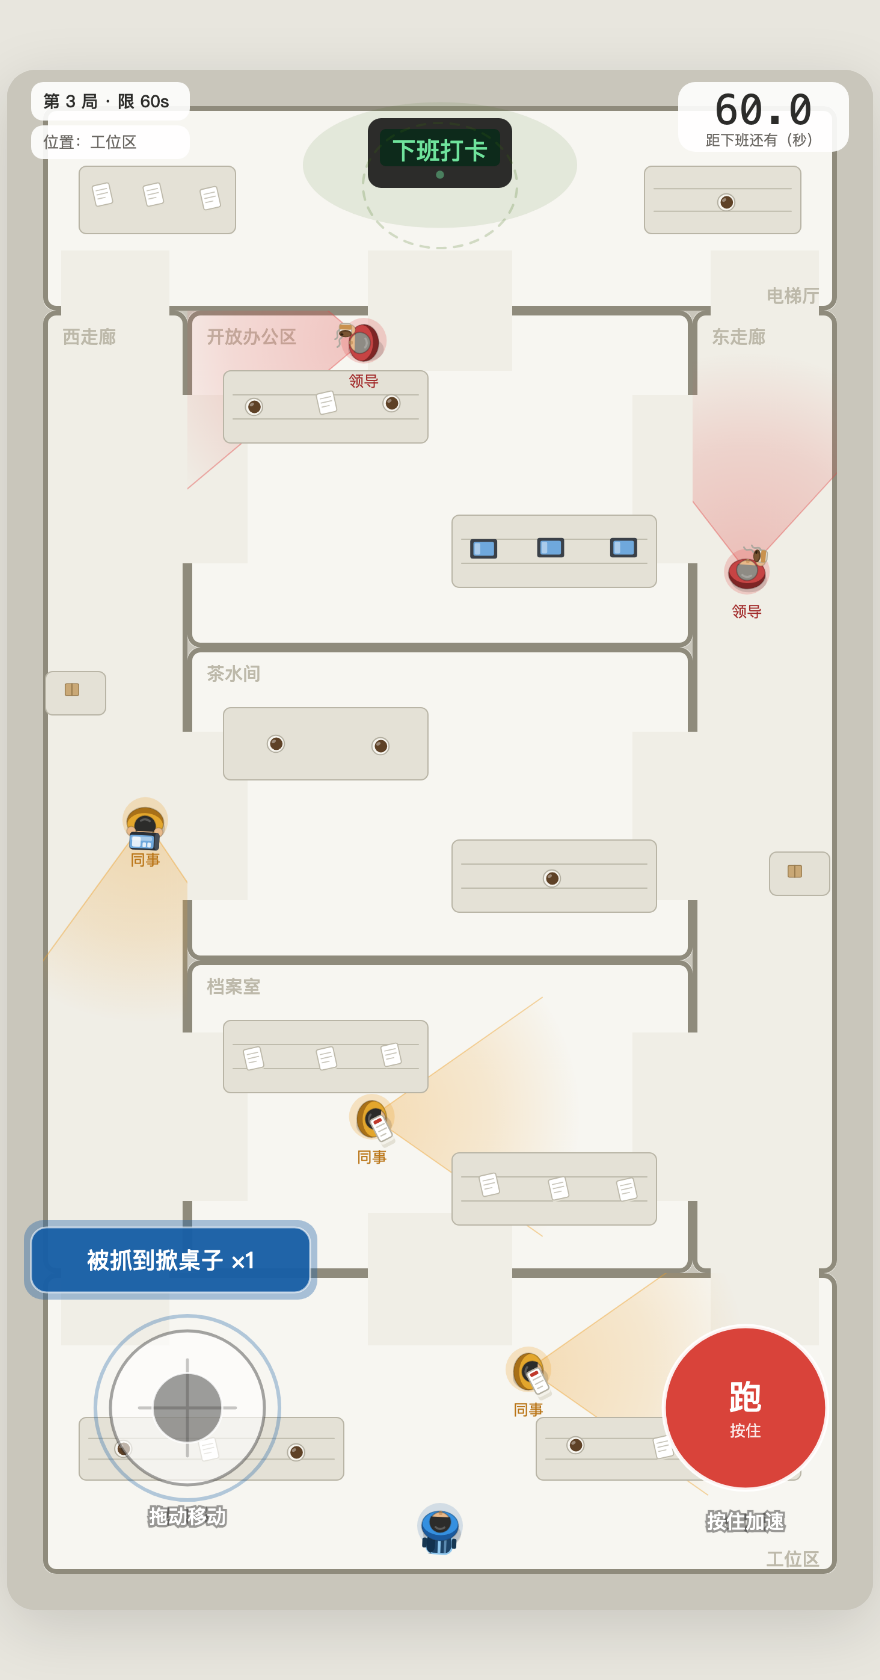
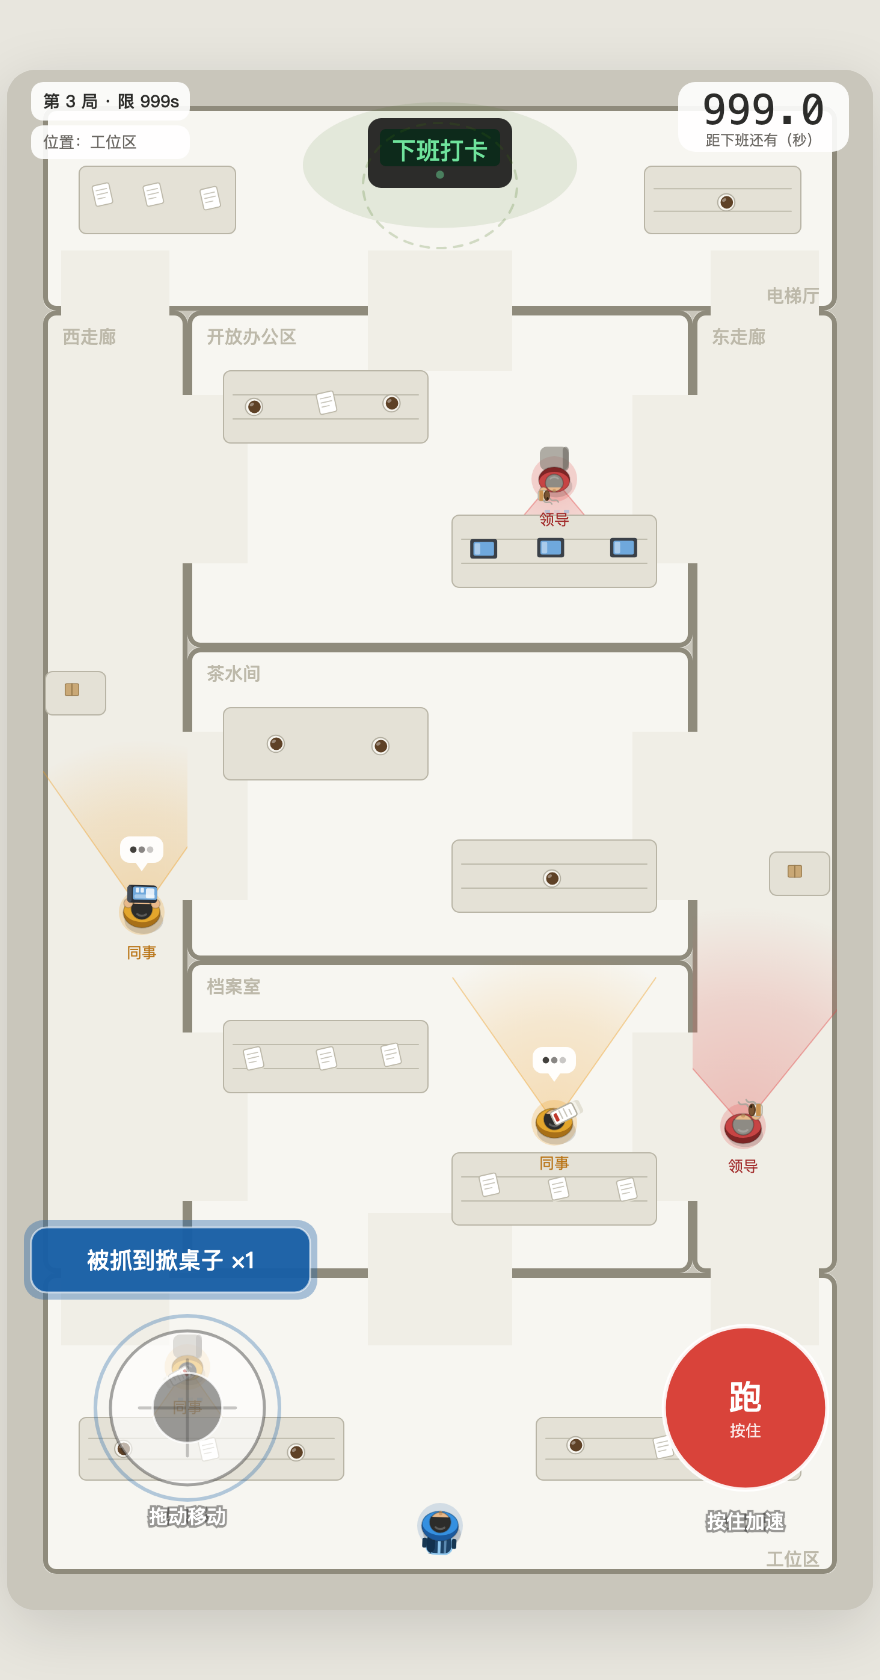
feat(ai): NPC 不再是节拍器 —— 改成站点制，会走去找人聊、会坐下来办公
原来是 [A,B] 两点往返 + 端点停顿，走出来就是个节拍器，不像人。

现在每个 NPC 有一组「站点」，到站做一个动作，随机待 7~15 秒，再随机挑下一站。
路线每局都不一样。

关键是动作直接改变威胁等级 —— 这同时补上了立项以来最大的缺口：
  走动中    视野 100%   横扫走廊              危险
  站着聊工作 视野 85%   头顶冒对话气泡，方向锁死  局部危险
  坐下办公   视野 40%   身后有椅子、屏幕溅蓝光    安全窗口

实测（90 秒采样）：走动 28% / 坐下办公 42% / 站着聊天 30%
全场平均等待 0.36s → 0.60s

这一条比之前任何一次改地图都有效。扩图（4 间→7 间）只把等待从 0.28 推到 0.36，
而「坐下办公」一个动作就推到 0.60 —— 安全区不是变窄了，是动起来了。
前者制造「多绕两步」，后者才制造「等一个时机」。

验证：
- 全部站点可站且在正确房间内，0 问题
- 任意两站之间的直线不穿墙，0 问题
- 90 秒连续跑：单帧最大位移 1.18px（无瞬移），跑出房间 0 帧
- 三关通关率 69/50/63%，运行时错误 0

顺带修了一个自己造的 bug：buildRound 里 d.path 改成 d.stations 时漏删了一个 b 变量。

diff --git a/index.html b/index.html
@@ -275,28 +275,83 @@ let roundTime = ROUND_TIME;  // 本局实际使用
 const INSET = 11;        // 贴墙留白
 
 /* ---------- NPC 定义 ---------- */
+/* ------------------------------------------------------------
+   NPC 行为：站点制，不是固定来回
+
+   原来是一个 [A,B] 两点往返 + 端点停顿 —— 走出来就是节拍器。
+   现在每个 NPC 有一组「站点」，每次到站做一个动作，待一会儿，再随机挑下一站。
+
+   动作直接改变威胁等级，这才是重点：
+     走动中   视野 100%，横扫走廊           → 危险
+     站着聊工作 视野 85%，方向锁死不再扫     → 局部危险
+     坐下办公  视野 40%，注意力在屏幕上      → 安全窗口
+   玩家因此有了「等他坐下」这个可等的时机 —— 这正是之前一直缺的张力来源。
+   ------------------------------------------------------------ */
+const ACT = {
+  sit:  { dwell:[7, 15], vis:0.40, alert:2.4 },   // 坐下办公：视野缩到 40%，察觉也慢
+  chat: { dwell:[4, 10], vis:0.85, alert:1.3 }    // 站着聊工作：视野略缩，方向锁死
+};
+const rndRange = a => a[0] + Math.random()*(a[1]-a[0]);
+
 const NPC_DEFS = {
-  // 工位区：横着来回扫，就卡在你出门必经的那条走廊上
+  // 工位区：在两排隔板之间来回，时不时坐下敲两下
   A: { key:'A', kind:'mate', name:'同事 · 老王', room:'desk', item:'paper',
-       path:[{x:100,y:1080},{x:620,y:1080}],
-       speed:72, vision:190, fov:70, alertTime:1.5, pause:1.2 },
-  // 西走廊：竖向长距离巡逻，走一次要 8 秒多
+       speed:72, vision:190, fov:70, alertTime:1.5,
+       stations:[
+         { x:150, y:1078, act:'sit',  face:[0,1] },
+         { x:360, y:1092, act:'chat', face:[0,1] },
+         { x:560, y:1078, act:'sit',  face:[0,1] },
+         { x:170, y:1198, act:'sit',  face:[0,-1] },
+         { x:545, y:1198, act:'chat', face:[0,-1] }
+       ] },
+  // 西走廊：走廊里没桌子，坐下就变成「蹲在快递架边整理」
   B: { key:'B', kind:'mate', name:'同事 · 小李', room:'west', item:'laptop',
-       path:[{x:110,y:300},{x:110,y:900}],
-       speed:70, vision:175, fov:70, alertTime:1.5, pause:1.2 },
+       speed:70, vision:175, fov:70, alertTime:1.5,
+       stations:[
+         { x:112, y:330, act:'chat', face:[0,1] },
+         { x:118, y:520, act:'sit',  face:[-1,0] },
+         { x:112, y:700, act:'chat', face:[0,-1] },
+         { x:112, y:900, act:'sit',  face:[-1,0] }
+       ] },
   // 东走廊
   C: { key:'C', kind:'boss', name:'领导 · 张总', room:'east', item:'coffee',
-       path:[{x:620,y:300},{x:620,y:900}],
-       speed:62, vision:190, fov:80, alertTime:0.9, pause:1.4 },
-  // 开放办公区：堵在「进电梯厅」那个唯一漏斗口前面
+       speed:62, vision:190, fov:80, alertTime:0.9,
+       stations:[
+         { x:612, y:340, act:'chat', face:[0,1] },
+         { x:608, y:668, act:'sit',  face:[1,0] },
+         { x:612, y:880, act:'chat', face:[0,-1] }
+       ] },
+  // 开放办公区：堵在进电梯厅的漏斗口前面
   D: { key:'D', kind:'boss', name:'领导 · 陈总', room:'open', item:'coffee',
-       path:[{x:200,y:225},{x:520,y:225}],
-       speed:68, vision:200, fov:80, alertTime:0.9, pause:1.4 },
+       speed:68, vision:200, fov:80, alertTime:0.9,
+       stations:[
+         { x:265, y:225, act:'chat', face:[1,0] },
+         { x:265, y:340, act:'sit',  face:[0,1] },
+         { x:455, y:340, act:'sit',  face:[0,1] },
+         { x:455, y:228, act:'chat', face:[-1,0] }
+       ] },
   // 档案室：想抄后门绕远路，就得先过他
   E: { key:'E', kind:'mate', name:'同事 · 老周', room:'arch', item:'paper',
-       path:[{x:200,y:870},{x:520,y:870}],
-       speed:68, vision:180, fov:70, alertTime:1.5, pause:1.2 }
+       speed:68, vision:180, fov:70, alertTime:1.5,
+       stations:[
+         { x:360, y:772, act:'chat', face:[0,1] },
+         { x:265, y:875, act:'sit',  face:[0,1] },
+         { x:455, y:875, act:'chat', face:[0,-1] }
+       ] }
 };
+
+// 走动 / 动作时的视野与察觉系数
+function npcVisMul(n){
+  if(n.state !== 'act') return 1;
+  const a = ACT[n.act];
+  return a ? a.vis : 1;
+}
+function npcVision(n){ return n.vision * npcVisMul(n); }
+function npcAlertMul(n){
+  if(n.state !== 'act') return 1;
+  const a = ACT[n.act];
+  return a ? a.alert : 1;
+}
 
 // 难度阶梯：第 1 局保送，逐局加码（对应设计稿里的"首局保送"）
 const ROUND_NPCS = [
@@ -410,20 +465,21 @@ function buildRound(){
     n.vision    = Math.round(d.vision * tune.vision);
     n.speed     = d.speed * tune.speed;
     n.alertTime = d.alertTime * tune.alert;
-    const a = d.path[0], b = d.path[1];
 
-    // 起始相位随机：位置沿巡逻线随机取，朝向随机一端。
-    // 不随机的话每条命都是同一局，玩家死一次就能靠背板过 —— 那样第二局开始就没有张力了。
+    // 起始：随机挑一个站点当出发点，再挑一个不同的当第一个目标。
+    // 不随机的话每局都是同一张局面，玩家死一次就能靠背板过。
     // 随机的是「开局局势」，不变的是「规则可见、锥体可预判」，所以失败依然可归因。
-    const f = 0.18 + Math.random()*0.64;
-    n.x = a.x + (b.x-a.x)*f;
-    n.y = a.y + (b.y-a.y)*f;
-
-    n.idx = Math.random() < 0.5 ? 0 : 1;   // 朝哪一端走
+    const s0i = Math.floor(Math.random()*d.stations.length);
+    const s0 = d.stations[s0i];
+    n.x = s0.x; n.y = s0.y;
+    const cand = [];
+    for(let i=0;i<d.stations.length;i++) if(i !== s0i) cand.push(i);
+    n.idx = cand.length ? cand[Math.floor(Math.random()*cand.length)] : s0i;
     n.state = 'move'; n.wait = 0;
+    n.act = 'chat'; n.turnT = 1; n.phase = 0;
     n.alert = 0; n.seen = false; n.down = 0;
 
-    const t = n.path[n.idx];
+    const t = n.stations[n.idx];
     const dx=t.x-n.x, dy=t.y-n.y, L=Math.hypot(dx,dy)||1;
     n.dir = { x:dx/L, y:dy/L };
     return n;
@@ -444,30 +500,58 @@ function resetRun(){
 /* ============================================================
    NPC 更新
    ============================================================ */
+// 挑下一站：不能原地不动，随机在其余站点里选
+function pickStation(n){
+  const cur = n.idx;
+  const cand = [];
+  for(let i=0;i<n.stations.length;i++) if(i !== cur) cand.push(i);
+  if(!cand.length) return cur;
+  return cand[Math.floor(Math.random()*cand.length)];
+}
+
 function updateNpc(n, dt){
   n.phase = n.phase || 0;
   // 被打倒期间：躺平，不动也不看
   if(n.down > 0){ n.down -= dt; n.phase *= 0.88; return; }
-  if(n.state === 'pause'){
+
+  /* ---- 到站了，正在做事（办公 / 聊天） ---- */
+  if(n.state === 'act'){
     n.wait -= dt;
-    n.phase *= 0.86;                       // 站住时停摆
-    // 停顿的后 35% 提前转头，给玩家一个「他要转身了」的可读信号
-    if(n.wait < n.pause*0.35){
-      const t = n.path[1-n.idx];
-      const dx=t.x-n.x, dy=t.y-n.y, L=Math.hypot(dx,dy)||1;
-      n.dir.x=dx/L; n.dir.y=dy/L;
+    // 坐着敲键盘：小幅快频；站着聊天：几乎不动
+    n.phase += dt * (n.act === 'sit' ? 5.5 : 1.1);
+    // 前 0.5 秒转身朝向站点指定的方向，之后锁死 —— 这是「他在看哪儿」的可读信号
+    const st = n.stations[n.idx];
+    if(st && st.face && n.turnT < 0.5){
+      n.turnT += dt;
+      const k = Math.min(1, dt*7);
+      n.dir.x += (st.face[0] - n.dir.x)*k;
+      n.dir.y += (st.face[1] - n.dir.y)*k;
+      const L = Math.hypot(n.dir.x, n.dir.y) || 1;
+      n.dir.x /= L; n.dir.y /= L;
     }
-    if(n.wait <= 0){ n.state='move'; n.idx = 1-n.idx; }
+    if(n.wait <= 0){
+      n.state = 'move';
+      n.idx = pickStation(n);
+    }
     return;
   }
-  const t = n.path[n.idx];
-  const dx = t.x-n.x, dy = t.y-n.y;
-  const d = Math.hypot(dx,dy);
-  if(d < 2.5){ n.state='pause'; n.wait = n.pause; return; }
+
+  /* ---- 正在走向下一站 ---- */
+  const t = n.stations[n.idx];
+  const dx = t.x - n.x, dy = t.y - n.y;
+  const d = Math.hypot(dx, dy);
+  if(d < 3){
+    // 到站：进入动作状态，随机停留
+    n.state = 'act';
+    n.act = t.act;
+    n.wait = rndRange((ACT[t.act] || ACT.chat).dwell);
+    n.turnT = 0;
+    return;
+  }
   const sp = n.speed*dt;
   n.x += dx/d*sp; n.y += dy/d*sp;
   n.dir.x = dx/d; n.dir.y = dy/d;
-  n.phase += dt * n.speed * 0.16;          // 步伐节奏跟着移速走，走得快的摆得也快
+  n.phase += dt * n.speed * 0.16;
 }
 
 // 该 NPC 此刻能否看见玩家
@@ -476,7 +560,7 @@ function canSee(n){
   if(roomOf(n.x,n.y) !== roomOf(player.x,player.y)) return false;      // 墙挡视线
   const dx = player.x-n.x, dy = player.y-n.y;
   const dist = Math.hypot(dx,dy);
-  if(dist > n.vision) return false;
+  if(dist > npcVision(n)) return false;        // 坐下办公时视野大幅缩短
   const facing = Math.atan2(n.dir.y, n.dir.x);
   const ang = Math.atan2(dy,dx);
   if(Math.abs(normAng(ang-facing)) > n.fov/2 * Math.PI/180) return false;
@@ -542,7 +626,7 @@ function update(dt){
                   Math.hypot(player.x-n.x, player.y-n.y) < P.noiseR;
 
     if(sees){
-      n.alert += dt / n.alertTime;                   // 被看见：按各自速度累积
+      n.alert += dt / (n.alertTime * npcAlertMul(n));                   // 被看见：按各自速度累积
       anyoneSees = true;
     } else if(noisy){
       n.alert += dt / (P.noiseAlert*2.2);            // 只听到跑步声：慢得多
@@ -1223,7 +1307,8 @@ function draw(){
     const a = Math.atan2(n.dir.y, n.dir.x);
     const half = (n.fov/2) * Math.PI/180;
     const danger = n.alert > 0.02;
-    const g = ctx.createRadialGradient(n.x, n.y, 8, n.x, n.y, n.vision);
+    const vis = npcVision(n);   // 坐下办公时锥体明显变短
+    const g = ctx.createRadialGradient(n.x, n.y, 8, n.x, n.y, vis);
     const base = (n.kind==='boss') ? '226,75,74' : '239,159,39';
     const alpha = 0.30 + n.alert*0.34;
     g.addColorStop(0,   'rgba('+base+','+(alpha*0.95)+')');
@@ -1232,7 +1317,7 @@ function draw(){
     ctx.fillStyle = g;
     ctx.beginPath();
     ctx.moveTo(n.x, n.y);
-    ctx.arc(n.x, n.y, n.vision, a-half, a+half);
+    ctx.arc(n.x, n.y, vis, a-half, a+half);
     ctx.closePath();
     ctx.fill();
 
@@ -1241,9 +1326,9 @@ function draw(){
     ctx.lineWidth = danger ? 1.6 : 1;
     ctx.beginPath();
     ctx.moveTo(n.x, n.y);
-    ctx.lineTo(n.x + Math.cos(a-half)*n.vision, n.y + Math.sin(a-half)*n.vision);
+    ctx.lineTo(n.x + Math.cos(a-half)*vis, n.y + Math.sin(a-half)*vis);
     ctx.moveTo(n.x, n.y);
-    ctx.lineTo(n.x + Math.cos(a+half)*n.vision, n.y + Math.sin(a+half)*n.vision);
+    ctx.lineTo(n.x + Math.cos(a+half)*vis, n.y + Math.sin(a+half)*vis);
     ctx.stroke();
     ctx.restore();
   }
@@ -1328,13 +1413,59 @@ function draw(){
 
     // 小人：同事夹着文件 / 抱着电脑，领导端着咖啡
     const down = n.down > 0;
+    const sitting  = !down && n.state === 'act' && n.act === 'sit';
+    const chatting = !down && n.state === 'act' && n.act === 'chat';
+
+    // 坐着办公：先在小人身后画一把椅子
+    if(sitting){
+      ctx.save();
+      ctx.translate(n.x - n.dir.x*17, n.y - n.dir.y*17);
+      ctx.rotate(Math.atan2(n.dir.y, n.dir.x));
+      ctx.fillStyle = 'rgba(126,123,114,.60)';
+      roundRect(-10, -12, 20, 24, 6); ctx.fill();
+      ctx.fillStyle = 'rgba(98,95,88,.55)';
+      roundRect(-10, -12, 20, 5, 3); ctx.fill();   // 椅背
+      ctx.restore();
+    }
+
     drawPerson(n.x, n.y, n.dir.x, n.dir.y, isBoss ? ART.boss : ART.mate, {
       item: n.item,
-      scale: 1.18,
+      scale: down ? 1.18 : (sitting ? 1.00 : 1.18),   // 坐下时占位缩一圈
       tilt: down ? Math.PI/2 : 0,            // 被打倒就歪着躺下
-      bob:  down ? 0 : Math.sin(n.phase || 0) * 1.6,
-      sway: down ? 0 : Math.cos((n.phase || 0) * 0.5) * 0.045
+      bob:  down ? 0
+            : (sitting  ? Math.sin(n.phase || 0) * 0.7        // 敲键盘：小幅快频
+            : (chatting ? Math.sin((n.phase || 0) * 0.7) * 0.45   // 聊天：几乎不动
+                        : Math.sin(n.phase || 0) * 1.6)),
+      sway: (down || sitting) ? 0 : Math.cos((n.phase || 0) * 0.5) * 0.045
     });
+
+    // 坐着办公：屏幕溅出来的光点（一眼看出他在盯屏幕，没在看你）
+    if(sitting){
+      const tt = performance.now()/900;
+      for(let i=0;i<3;i++){
+        const f = (tt + i*0.33) % 1;
+        ctx.globalAlpha = 0.10 + 0.34*Math.sin(f*Math.PI);
+        ctx.fillStyle = '#6FA8DC';
+        ctx.fillRect(n.x + n.dir.x*27 - 8 + i*8, n.y + n.dir.y*27 - 1.5, 4.5, 3);
+      }
+      ctx.globalAlpha = 1;
+    }
+
+    // 站着聊工作：头顶冒对话气泡（有警觉条时不画，免得叠在一起）
+    if(chatting && n.alert < 0.06){
+      const bx = n.x, by = n.y - 52;
+      ctx.fillStyle = 'rgba(255,255,255,.94)';
+      roundRect(bx-18, by-11, 36, 22, 8); ctx.fill();
+      ctx.beginPath();
+      ctx.moveTo(bx-5, by+11); ctx.lineTo(bx+5, by+11); ctx.lineTo(bx, by+18);
+      ctx.closePath(); ctx.fill();
+      const t2 = performance.now()/300;
+      for(let i=0;i<3;i++){
+        const aa = 0.28 + 0.72*Math.max(0, Math.sin(t2 - i*0.8));
+        ctx.fillStyle = 'rgba(60,58,54,' + aa.toFixed(2) + ')';
+        ctx.beginPath(); ctx.arc(bx - 7 + i*7, by, 2.7, 0, Math.PI*2); ctx.fill();
+      }
+    }
     if(down){
       // 头顶转圈的星星
       const st = performance.now()/380;

diff --git a/README.md b/README.md
@@ -47,6 +47,30 @@
 
 ---
 
+## 他们不是巡逻的，是在上班
+
+一开始 NPC 是两点往返的 —— 走出来就是个节拍器：走到头、停一下、走回来。看着不像人，像扫地机器人。
+
+现在是**站点制**：每个人有一组「站点」，走到一站做一个动作，待一会儿，再随机挑下一站。所以路线每局都不一样。
+
+| 状态 | 视野 | 画面上长什么样 | 对你意味着 |
+|---|---|---|---|
+| **走动中** | 100% | 正常走路，有起伏 | 危险，锥体横扫走廊 |
+| **站着聊工作** | 85% | 头顶冒白色对话气泡，三个点在跳 | 局部危险，绕开他正面就行 |
+| **坐下办公** | **40%** | 身后有椅子，屏幕往外溅蓝光 | **安全窗口** —— 他在盯屏幕，没在看你 |
+
+这就是一直缺的那个东西：**一个可以等的时机。**
+
+改之前全场平均等待只有 0.28 秒 —— 玩家从来不「停下等时机」，只会「换条路绕过去」。加了坐下办公之后涨到 **0.60 秒**，而且因为锥体长度是肉眼可见地变短，玩家能一眼读出「现在能过」。
+
+顺带，行为分布实测是这样（90 秒采样）：
+
+| 状态 | 占比 |
+|---|---|
+| 走动 | 28% |
+| 坐下办公 | **42%** |
+| 站着聊天 | 30% |
+
 ## 但你不是一击必死
 
 走进视野不会立刻完蛋。你头顶先冒出一个 `?`，然后 **`?` 慢慢涨成 `!`**。
@@ -137,18 +161,22 @@
 
 ## 实测数据
 
-开发期间用无头 Chromium **直接驱动游戏自己的 `update()`** 跑过 120 局（不是另写模拟脚本，跑的就是真代码）。结论留在这儿，免得以后忘了当初为什么这么调：
+开发期间用无头 Chromium **直接驱动游戏自己的 `update()`** 跑批量对局（不是另写模拟脚本，跑的就是真代码）。结论留在这儿，免得以后忘了当初为什么这么调：
 
-- **地图翻新后最短路径 1452 px（纯走 16.5 秒）**，旧图是 1220 px（13.9 秒）。可行走面积从 466k 涨到 563k px²。谨慎型玩家实际要 19~26 秒 —— 但 60 秒版通关后**仍然剩 33~41 秒**。开始页因此保留 `60 秒版` 和 `32 秒版` 两个按钮。
-- **各闸门「存在安全站位」的时间占比仍在 90% 以上。** 贴着墙走几乎永远安全，因为巡逻是静态的 —— **学会一次，就能一直用**。
-- **全场平均等待只有 0.36 秒。** 把地图从 4 间扩到 7 间之后，这个数字只从 0.28 涨到 0.36，几乎没动。这说明了「加房间」解决不了这个问题：玩家从来不停下等时机，只会换条路绕过去。
-- **加了「掀桌子」之后，最难那两局的通关率从 13% 提到 38~50%。** 这条机制的定位不是「送一条命」，而是「把一次性失误的代价从『重开』降级成『扣 8 秒』」——对传播型小游戏来说，前者会让人关掉页面，后者会让人再来一把。
-- 48 局实测的难度阶梯：**69% → 63% → 56%**（每局 16 次，机器人会看视野锥、会绕路、被抓就掀桌子）。
+- **最短路径 1452 px（纯走 16.5 秒）。** 谨慎型玩家实际要 29~32 秒 —— 多出来的十几秒全是绕路和等窗口。
+- **「加房间」解决不了「只会绕、不会等」。** 把地图从 4 间扩到 7 间，平均等待只从 0.28 秒涨到 0.36 秒，几乎没动。真正起作用的是**给 NPC 加「坐下办公」**：同一个动作把等待推到 **0.60 秒**。
+
+  这一条是立项到现在最值钱的一课：**让安全区动起来，比让它变窄有用得多。** 前者制造的是「等一个时机」，后者制造的只是「多绕两步」。
+
+- **各闸门「存在安全站位」的时间占比仍在 90% 以上** —— 只要 NPC 在走动，贴墙走几乎永远安全，因为巡逻是静态的。所以威胁不能只靠空间，得靠**时间上的窗口**（坐下办公那 42% 的时间）。
+- **加了「掀桌子」之后，最难那两局的通关率从 13% 提到 38~50%。** 这条机制的定位不是「送一条命」，而是「把一次性失误的代价从『重开』降级成『扣 8 秒』」。
+- 48 局实测的难度阶梯：**69% → 50% → 63%**（每局 16 次，机器人会看视野锥、会绕路、被抓就掀桌子。样本小，第 2、3 局之间的差在噪声范围内）。
+- 行为分布（90 秒采样）：走动 28% / 坐下办公 42% / 站着聊天 30%。
 
 ## 还没解决的
 
-- **缺少必须停下来等的时刻。** 这仍然是最核心的问题，而且扩图之后被证明了：安全区太宽、掩体太多、路太多，玩家永远能绕。下一步要做的不是继续加房间，而是给 NPC 加**摸鱼状态** —— 他背过身接电话的时候视野锥直接消失。让安全区**动起来**而不是**变窄**，才能逼出真正的心跳。
-- 60 秒对当前这张图仍然偏长（通关平均 19~26 秒），要么缩到 40 秒，要么接受它只是个上限而不是压力。
+- **姿态只有两种**（站着聊 / 坐下办公）。还想加「打电话」（背对全场，视野锥直接消失十几秒）和「去会议室」（消失更久，但回来时会带一个人）。
+- **60 秒的定位还没定下来。** 通关中位数 30 秒，成功局还剩 23~27 秒 —— 说它是压力，余量太大；说它是装饰，又有 23% 的局真的超时。要么缩到 45 秒，要么就明确它只是个上限。
 - 失败台词卡的分享样式还没做。
 
 ## 结构
